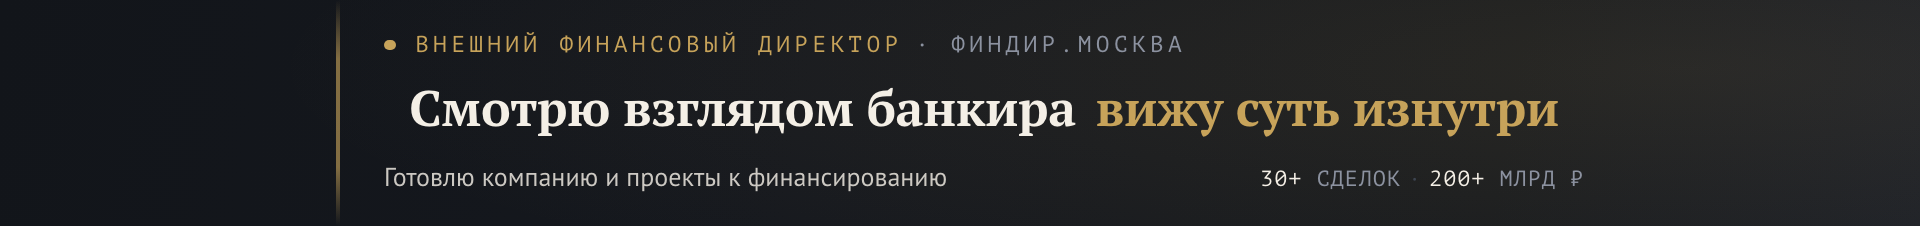
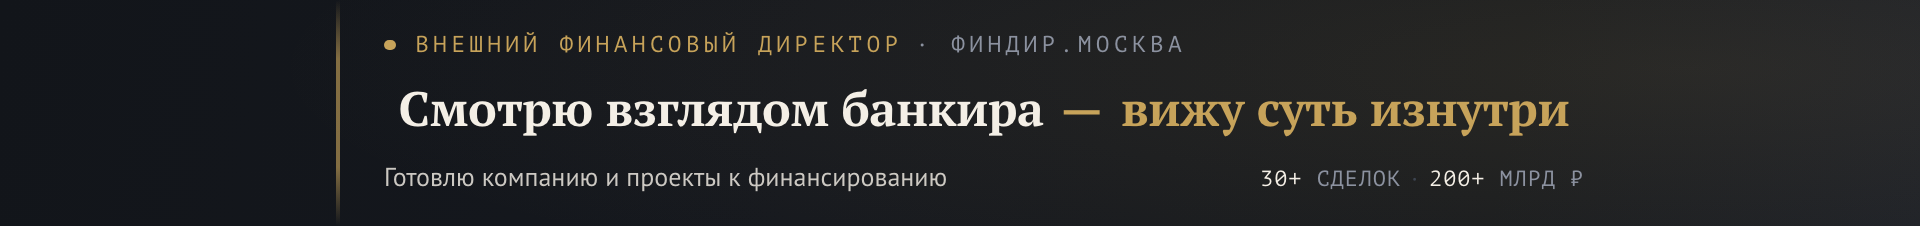
Kwork: тире между половинами тезиса, кегль 25 → 24.2
В двухстрочном макете поворот фразы отыгрывает глиф, знак препинания там лишний.
В одну строку глиф не влезает, и без разделителя половины слипались в «банкира
вижу» — замечание Дмитрия. Тире янтарное: цвет второй половины, разделитель
принадлежит ей.

Разделитель прибавил ~15 px ширины, и тезис вылез за центральные 65 % Kwork
на 2,4 px. Поймала проверка, а не глаз — кегль подрезан до 24.2.

Changed region(s): [[0.1875, 0.4027, 0.8438, 0.6195]]

diff --git a/oblozhki/oblozhka.html b/oblozhki/oblozhka.html
@@ -128,11 +128,18 @@ body[data-p="kwork"] .holst{
   --av-w:0px; --av-h:0px;
   --hrebet:168px; --otstup:24px; --pole-pravo:168px;
   --pole-verh:16px; --pole-niz:15px;
-  --kegl-metka:11.5px; --kegl-tezis:25px; --kegl-delo:13px; --kegl-masshtab:11px;
+  /* 25px было ДО добавления тире: разделитель прибавил ~15 px ширины, и тезис вылез
+     за центральные 65 % на 2,4 px — поймала проверка, а не глаз. 24.2 возвращает запас. */
+  --kegl-metka:11.5px; --kegl-tezis:24.2px; --kegl-delo:13px; --kegl-masshtab:11px;
   --glif-h:0px; --glif-w:0px; --glif-gap:0px; --glif-pole:0;
 }
+/* ⛔ В двухстрочном макете поворот фразы отыгрывает глиф, и знак препинания там лишний.
+   В одну строку глиф не влезает — без разделителя половины слипаются в «банкира вижу»
+   и читаются как одно предложение (замечание Дмитрия 11.08.2026). Поэтому здесь тире,
+   янтарное: цвет тот же, что у второй половины, — разделитель принадлежит ей. */
 body[data-p="kwork"] .glif{ display:none }
-body[data-p="kwork"] .tezis .vtoraya{ display:inline; margin-left:.4em }
+body[data-p="kwork"] .tezis .vtoraya{ display:inline }
+body[data-p="kwork"] .tezis .vtoraya::before{ content:"—"; margin:0 .38em 0 .34em }
 body[data-p="kwork"] .tezis{ flex-direction:row; align-items:center; white-space:nowrap }
 
 /* ── LinkedIn: 792×198 CSS → 1584×396 PNG (штатный размер фона) ────────────
